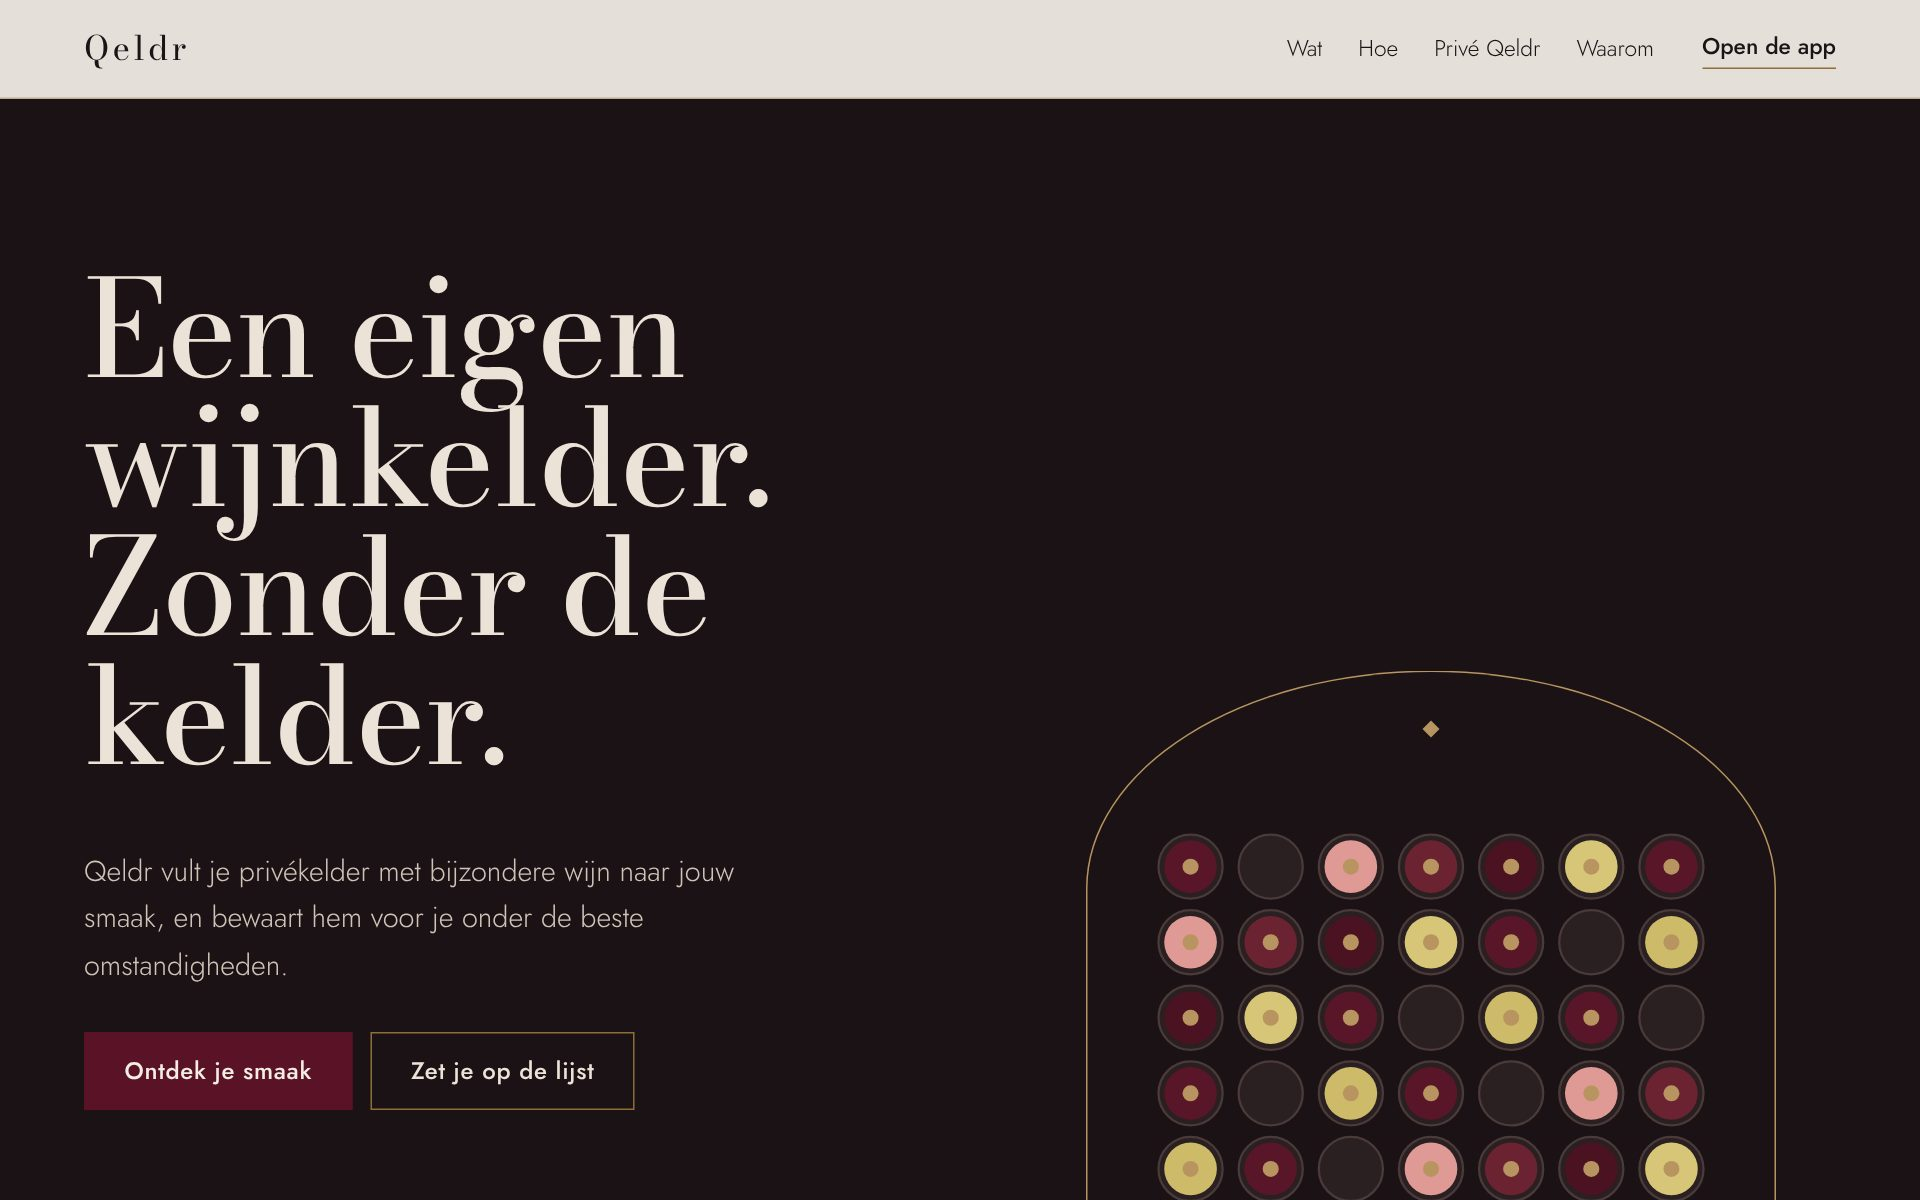
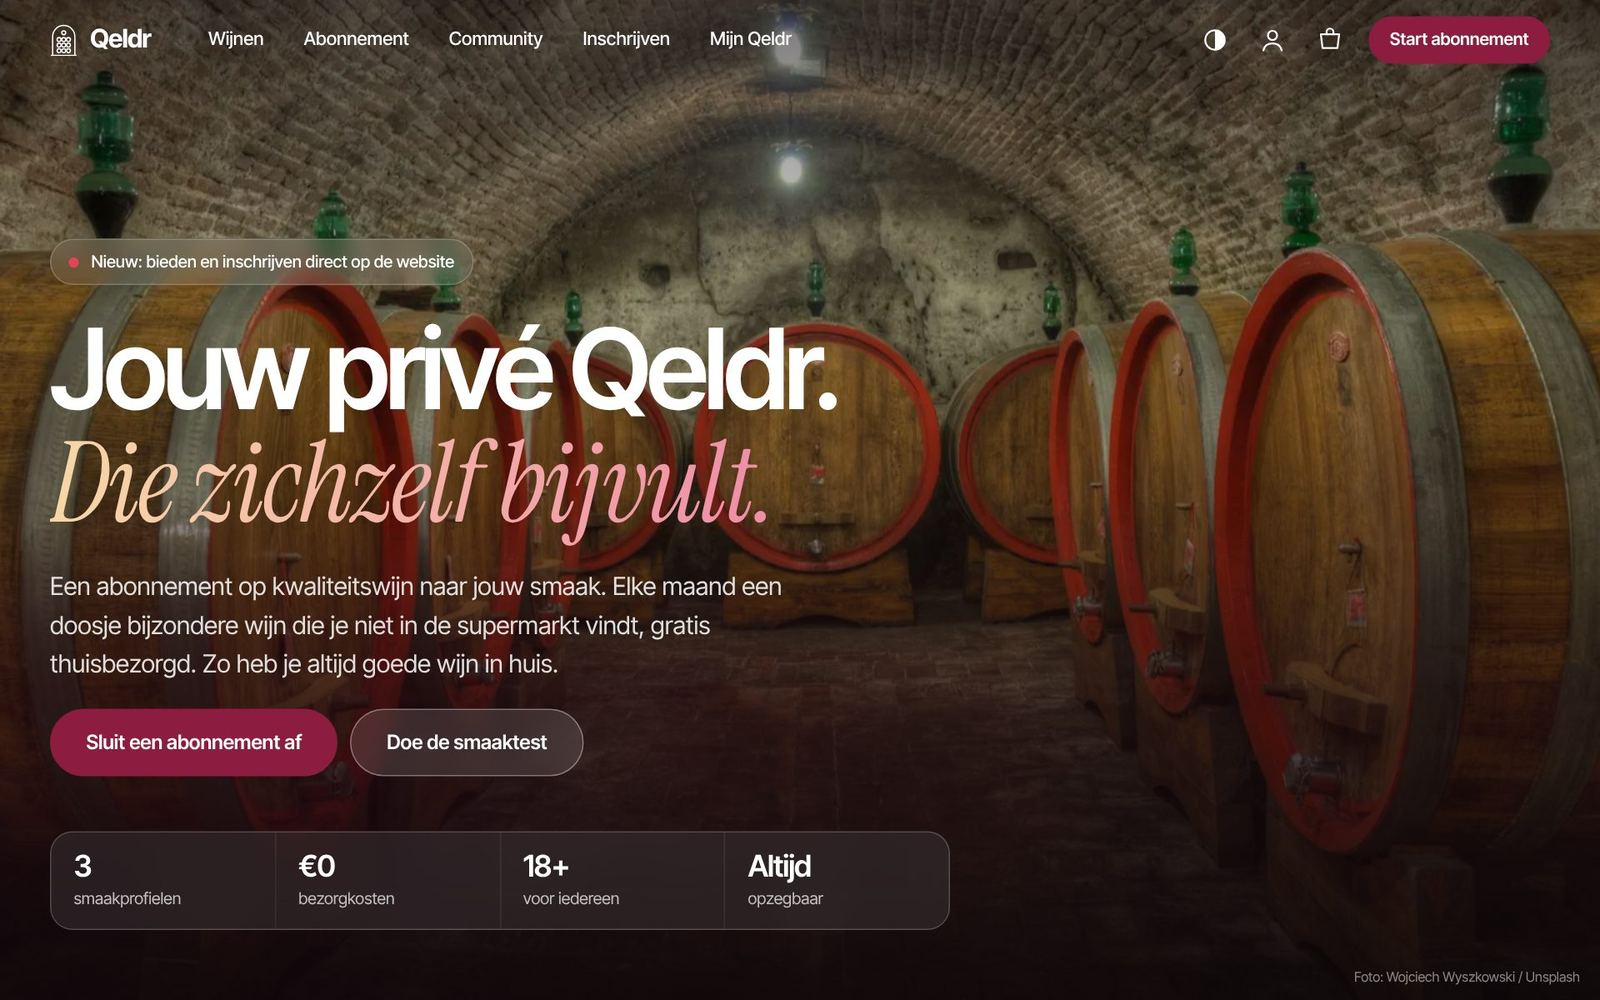
Qeldr: echt scherm van de live site en tekst die past bij wat Qeldr nu is
Schermafbeeldingen kleiner gemaakt (1600 px) voor snellere laadtijd.

Claude-Session: https://claude.ai/code/session_01P8ZdxFziaVEtuTcii6zg9C

diff --git a/src/pages/Etalage.tsx b/src/pages/Etalage.tsx
@@ -58,7 +58,7 @@ export default function Page({ lang, signal }) {
 </div>
 </section>
 <section style={css("padding:0 48px 88px")}><div style={css(`font-family:'IBM Plex Mono',monospace;font-size:13px;color:${$v?.signal ?? ""};font-weight:600;letter-spacing:0.5px;text-transform:uppercase`)}>{LT.eb}</div><h2 style={css("margin:10px 0 0;font-size:48px;letter-spacing:-1.6px;line-height:1.05;max-width:900px")}>{LT.t}</h2><p style={css("margin:16px 0 0;font-size:19px;line-height:1.55;color:#3A4258;max-width:780px")}>{LT.s}</p>
-<div style={css("display:grid;grid-template-columns:repeat(auto-fit,minmax(420px,1fr));gap:20px;margin-top:32px")}>{LIVE.map((p) => <article key={p.name} style={css("border:2px solid #14213D;border-radius:20px;padding:28px;display:flex;flex-direction:column;gap:12px")}>{"screen" in p ? <a href={p.url} target="_blank" rel="noopener" className="sc-link" aria-label={(lang === "en" ? "Open " : "Bekijk ") + p.host} style={css("display:block;margin:-12px -12px 4px;border-radius:14px;overflow:hidden;background:#14213D;padding:10px")}><span className="sc-frame" style={css("display:block;border-radius:8px;overflow:hidden")}><img src={p.screen} alt="" width="1920" height="1200" loading="lazy" decoding="async" style={css("display:block;width:100%;height:auto;aspect-ratio:16/10;object-fit:cover;object-position:top")} /></span></a> : null}<div style={css("display:flex;justify-content:space-between;align-items:center;gap:12px;flex-wrap:wrap")}><span style={css("font-family:'IBM Plex Mono',monospace;font-size:12px;font-weight:600;padding:4px 10px;border-radius:999px;background:#14213D;color:#FFFFFF;text-transform:uppercase")}>{p.kind[lang]}</span><span style={css("font-family:'IBM Plex Mono',monospace;font-size:12px;font-weight:600;padding:4px 10px;border-radius:999px;background:#E7F6EF;color:#0F7A55")}>{p.status}</span></div><div style={css("font-size:34px;font-weight:700;letter-spacing:-1px")}>{"title" in p ? p.title[lang] : p.name}</div><p style={css("margin:0;font-size:17px;line-height:1.55;color:#3A4258")}>{p.text[lang]}</p><div>{p.points[lang].map((x) => <div key={x} style={css("display:flex;gap:10px;padding:8px 0;border-bottom:1px solid #E3E7EE;font-size:15px")}><span aria-hidden="true" style={css(`color:${$v?.signal ?? ""}`)}>✓</span>{x}</div>)}</div><a href={p.url} target="_blank" rel="noopener" style={css(`align-self:flex-start;margin-top:8px;padding:14px 22px;border-radius:999px;background:${$v?.signal ?? ""};color:#FFFFFF;font-weight:700;text-decoration:none`)}>{p.status === 'demo' ? LT.demo : LT.open + ': ' + p.host} →</a></article>)}</div>
+<div style={css("display:grid;grid-template-columns:repeat(auto-fit,minmax(420px,1fr));gap:20px;margin-top:32px")}>{LIVE.map((p) => <article key={p.name} style={css("border:2px solid #14213D;border-radius:20px;padding:28px;display:flex;flex-direction:column;gap:12px")}>{"screen" in p ? <a href={p.url} target="_blank" rel="noopener" className="sc-link" aria-label={(lang === "en" ? "Open " : "Bekijk ") + p.host} style={css("display:block;margin:-12px -12px 4px;border-radius:14px;overflow:hidden;background:#14213D;padding:10px")}><span className="sc-frame" style={css("display:block;border-radius:8px;overflow:hidden")}><img src={p.screen} alt="" width="1600" height="1000" loading="lazy" decoding="async" style={css("display:block;width:100%;height:auto;aspect-ratio:16/10;object-fit:cover;object-position:top")} /></span></a> : null}<div style={css("display:flex;justify-content:space-between;align-items:center;gap:12px;flex-wrap:wrap")}><span style={css("font-family:'IBM Plex Mono',monospace;font-size:12px;font-weight:600;padding:4px 10px;border-radius:999px;background:#14213D;color:#FFFFFF;text-transform:uppercase")}>{p.kind[lang]}</span><span style={css("font-family:'IBM Plex Mono',monospace;font-size:12px;font-weight:600;padding:4px 10px;border-radius:999px;background:#E7F6EF;color:#0F7A55")}>{p.status}</span></div><div style={css("font-size:34px;font-weight:700;letter-spacing:-1px")}>{"title" in p ? p.title[lang] : p.name}</div><p style={css("margin:0;font-size:17px;line-height:1.55;color:#3A4258")}>{p.text[lang]}</p><div>{p.points[lang].map((x) => <div key={x} style={css("display:flex;gap:10px;padding:8px 0;border-bottom:1px solid #E3E7EE;font-size:15px")}><span aria-hidden="true" style={css(`color:${$v?.signal ?? ""}`)}>✓</span>{x}</div>)}</div><a href={p.url} target="_blank" rel="noopener" style={css(`align-self:flex-start;margin-top:8px;padding:14px 22px;border-radius:999px;background:${$v?.signal ?? ""};color:#FFFFFF;font-weight:700;text-decoration:none`)}>{p.status === 'demo' ? LT.demo : LT.open + ': ' + p.host} →</a></article>)}</div>
 </section>
 <section style={css("padding:0 48px 88px")}><div style={css(`font-family:'IBM Plex Mono',monospace;font-size:13px;color:${$v?.signal ?? ""};font-weight:600;letter-spacing:0.5px;text-transform:uppercase`)}>{$v?.t?.dm_eb}</div><h2 style={css("margin:10px 0 0;font-size:48px;letter-spacing:-1.6px;line-height:1.05;max-width:900px")}>{$v?.t?.dm_t}</h2>
 <div role="group" style={css("display:flex;flex-wrap:wrap;gap:8px;margin-top:24px")}>{($v?.filters || []).map((x, x__i) => <React.Fragment key={x__i}><button type="button" aria-pressed={x?.on} onClick={x?.pick} style={css(x?.style)}>{x?.label}</button></React.Fragment>)}</div>

diff --git a/src/live.ts b/src/live.ts
@@ -24,12 +24,12 @@ export const LIVE = [
     status: 'live',
     kind: { nl: 'Business-idee · website en app', en: 'Business idea · website and app' },
     text: {
-      nl: 'Een eigen wijnkelder, zonder de kelder. Leden ontdekken met een korte smaaktest wat ze lekker vinden en krijgen elke maand wijn van kleine wijnmakers, thuis bezorgd of bewaard in hun eigen vak in het gewelf. Wij werkten het idee uit tot merk, website en app, om het te toetsen bij de eerste leden.',
-      en: 'Your own wine cellar, without the cellar. Members find out what they like with a short taste test and receive wine from small winemakers every month, delivered at home or kept in their own space in the vault. We turned the idea into a brand, website and app, to test it with the first members.',
+      nl: 'Jouw privé wijnkelder die zichzelf bijvult: een abonnement op kwaliteitswijn naar jouw smaak, elke maand gratis thuisbezorgd. Met smaaktest, een overzicht van al je flessen thuis en in het gewelf, en bieden en inschrijven op wijn. Van idee tot merk, website en app.',
+      en: 'Your private wine cellar that refills itself: a subscription to quality wine matched to your taste, delivered free every month. With a taste test, an overview of all your bottles at home and in the vault, and bidding and subscribing to wine. From idea to brand, website and app.',
     },
     points: {
-      nl: ['Merk, verhaal en website', 'Klikbare app met smaaktest', 'Wachtlijst voor de eerste leden'],
-      en: ['Brand, story and website', 'Clickable app with a taste test', 'Waiting list for the first members'],
+      nl: ['Abonnement met smaaktest en drie smaakprofielen', 'Mijn Qeldr: alle flessen thuis en in het gewelf', 'Bieden en inschrijven op wijn'],
+      en: ['Subscription with taste test and three taste profiles', 'My Qeldr: all bottles at home and in the vault', 'Bidding and subscribing to wine'],
     },
   },
   {

diff --git a/src/showcase.ts b/src/showcase.ts
@@ -28,10 +28,10 @@ export const SHOWCASE: ShowcaseItem[] = [
   {
     name: { nl: 'Qeldr', en: 'Qeldr' },
     kind: { nl: 'Business-idee', en: 'Business idea' },
-    stage: { nl: 'idee → merk, website en app', en: 'idea → brand, website and app' },
+    stage: { nl: 'live · website en app', en: 'live · website and app' },
     text: {
-      nl: 'Een eigen wijnkelder, zonder de kelder. Leden ontdekken met een korte smaaktest wat ze lekker vinden; elke maand komt er wijn van kleine wijnmakers bij, thuis bezorgd of bewaard in een eigen vak in het gewelf. Van idee tot merk, verhaal, website en app met smaaktest en wachtlijst, om het te toetsen bij de eerste leden.',
-      en: 'Your own wine cellar, without the cellar. Members find out what they like with a short taste test; every month new wine from small winemakers is added, delivered at home or kept in their own space in the vault. From idea to brand, story, website and an app with a taste test and waiting list, to test it with the first members.',
+      nl: 'Jouw privé wijnkelder die zichzelf bijvult. Een abonnement op kwaliteitswijn naar jouw smaak: met een korte smaaktest kies je je profiel en elke maand komt er bijzondere wijn bij die je niet in de supermarkt vindt, gratis thuisbezorgd. In Mijn Qeldr zie je al je flessen, thuis of in het gewelf, en je kunt bieden en inschrijven op wijn. Van idee tot merk, website en app.',
+      en: 'Your private wine cellar that refills itself. A subscription to quality wine matched to your taste: a short taste test sets your profile and every month special wine you will not find in the supermarket is added, delivered free. In My Qeldr you see all your bottles, at home or in the vault, and you can bid and subscribe to wine. From idea to brand, website and app.',
     },
     url: 'https://qeldr.nl',
     host: 'qeldr.nl',

diff --git a/src/Showcase.tsx b/src/Showcase.tsx
@@ -36,7 +36,7 @@ export default function Showcase({ lang, signal, title, sub }: { lang: Lang; sig
   const auto = playing && !reduced;
 
   const screen = it.screen ? (
-    <img src={it.screen} alt={`${name}: ${lang === 'nl' ? 'schermafbeelding' : 'screenshot'}`} width={1920} height={1200}
+    <img src={it.screen} alt={`${name}: ${lang === 'nl' ? 'schermafbeelding' : 'screenshot'}`} width={1600} height={1000}
       loading={i === 0 ? 'eager' : 'lazy'} decoding="async" style={{ display: 'block', width: '100%', height: 'auto', aspectRatio: '16 / 10', objectFit: 'cover', objectPosition: 'top' }} />
   ) : (
     <div style={{ background: '#FFFFFF', padding: 18, display: 'flex', flexDirection: 'column', gap: 12, aspectRatio: '16 / 10' }}>
